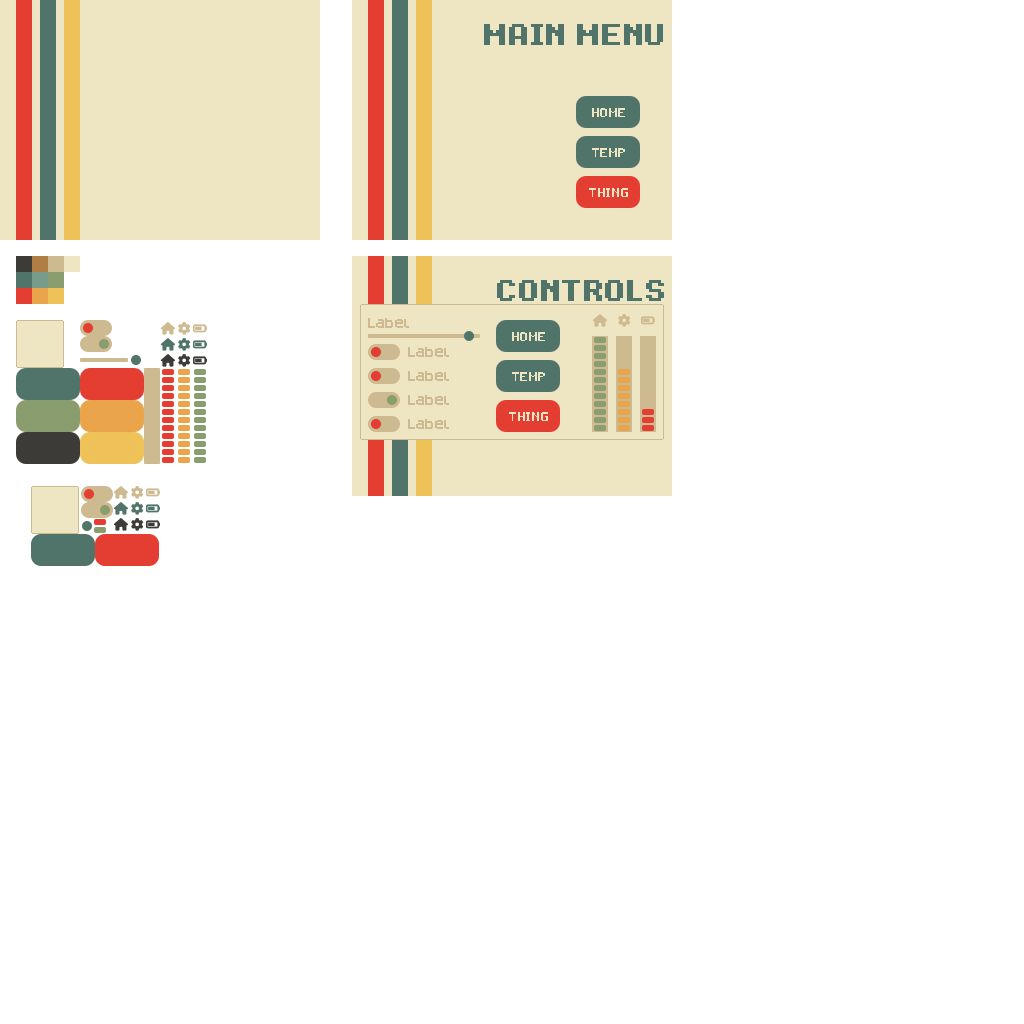
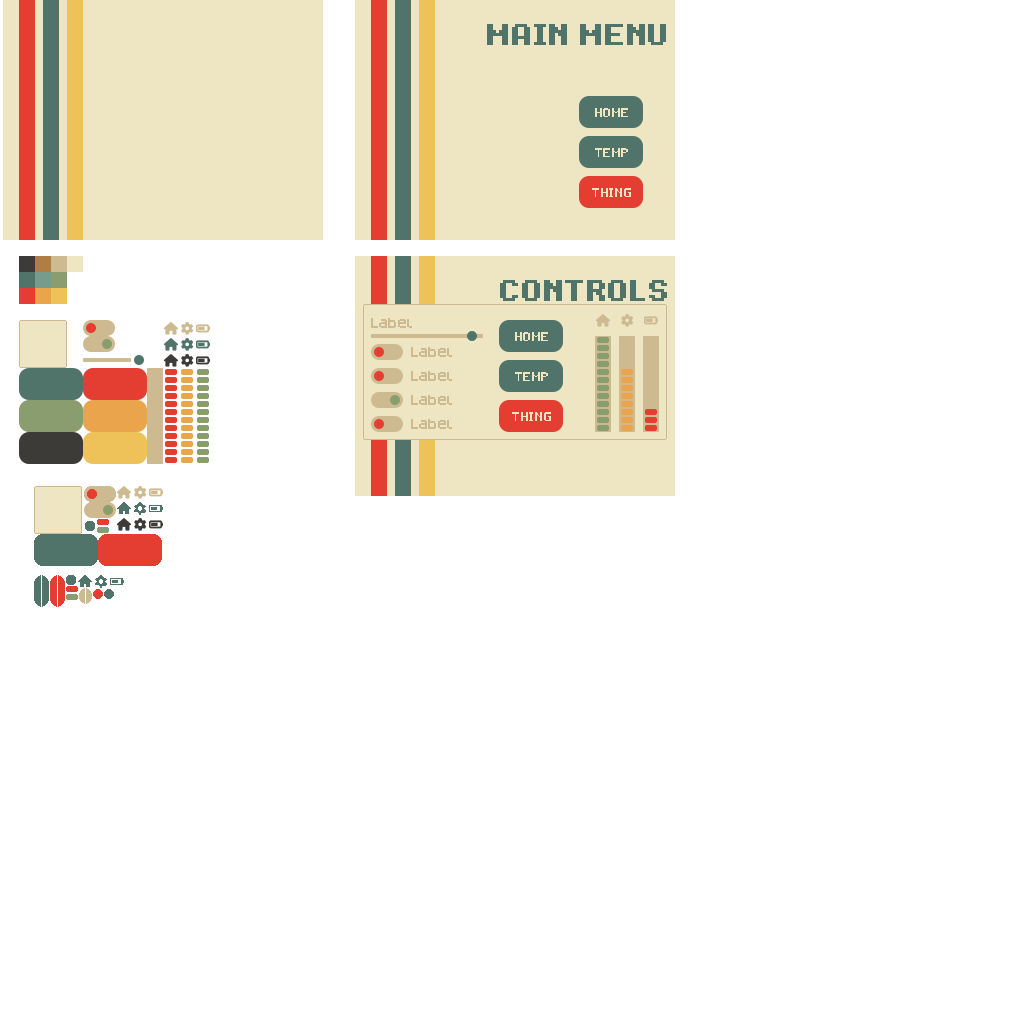
Condense spritesheet

diff --git a/MeadowGum.ScratchPad.Common/Components/SpriteButtonRuntime.Generated.cs b/MeadowGum.ScratchPad.Common/Components/SpriteButtonRuntime.Generated.cs
@@ -38,13 +38,13 @@ namespace MeadowGum.ScratchPad.Common.Components
                             this.ColoredRectangleInstance.Green = 61;
                             this.ColoredRectangleInstance.Red = 228;
                             this.Left.TextureHeight = 32;
-                            this.Left.TextureLeft = 64;
-                            this.Left.TextureTop = 48;
-                            this.Left.TextureWidth = 9;
+                            this.Left.TextureLeft = 16;
+                            this.Left.TextureTop = 0;
+                            this.Left.TextureWidth = 7;
                             this.Right.TextureHeight = 32;
-                            this.Right.TextureLeft = 118;
-                            this.Right.TextureTop = 48;
-                            this.Right.TextureWidth = 10;
+                            this.Right.TextureLeft = 24;
+                            this.Right.TextureTop = 0;
+                            this.Right.TextureWidth = 7;
                             break;
                         case Selection.Deselected:
                             this.ColoredRectangleInstance.Blue = 106;
@@ -52,12 +52,12 @@ namespace MeadowGum.ScratchPad.Common.Components
                             this.ColoredRectangleInstance.Red = 81;
                             this.Left.TextureHeight = 32;
                             this.Left.TextureLeft = 0;
-                            this.Left.TextureTop = 48;
-                            this.Left.TextureWidth = 9;
+                            this.Left.TextureTop = 0;
+                            this.Left.TextureWidth = 7;
                             this.Right.TextureHeight = 32;
-                            this.Right.TextureLeft = 54;
-                            this.Right.TextureTop = 48;
-                            this.Right.TextureWidth = 10;
+                            this.Right.TextureLeft = 8;
+                            this.Right.TextureTop = 0;
+                            this.Right.TextureWidth = 7;
                             break;
                     }
                 }
@@ -124,8 +124,8 @@ namespace MeadowGum.ScratchPad.Common.Components
             this.Left.TextureHeight = 32;
             this.Left.TextureHeightScale = 1f;
             this.Left.TextureLeft = 0;
-            this.Left.TextureTop = 48;
-            this.Left.TextureWidth = 9;
+            this.Left.TextureTop = 0;
+            this.Left.TextureWidth = 7;
             this.Left.TextureWidthScale = 1f;
             this.Left.Width = 100f;
             this.Left.WidthUnits = global::Gum.DataTypes.DimensionUnitType.PercentageOfSourceFile;
@@ -144,9 +144,9 @@ namespace MeadowGum.ScratchPad.Common.Components
             this.Right.TextureAddress = global::Gum.Managers.TextureAddress.Custom;
             this.Right.TextureHeight = 32;
             this.Right.TextureHeightScale = 1f;
-            this.Right.TextureLeft = 54;
-            this.Right.TextureTop = 48;
-            this.Right.TextureWidth = 10;
+            this.Right.TextureLeft = 8;
+            this.Right.TextureTop = 0;
+            this.Right.TextureWidth = 7;
             this.Right.TextureWidthScale = 1f;
             this.Right.Width = 100f;
             this.Right.WidthUnits = global::Gum.DataTypes.DimensionUnitType.PercentageOfSourceFile;
